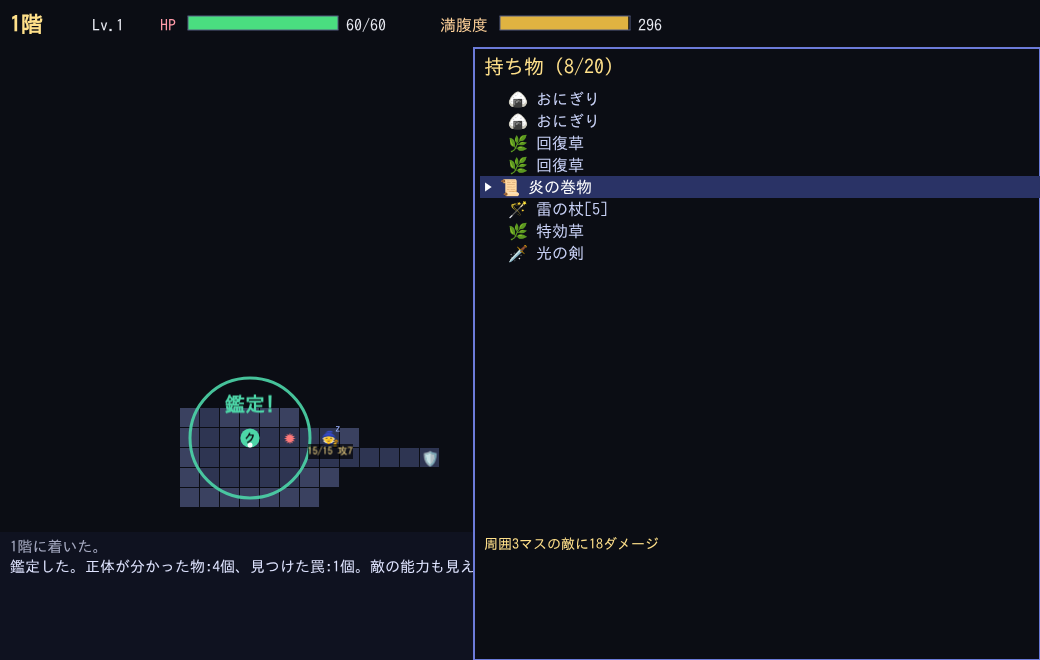
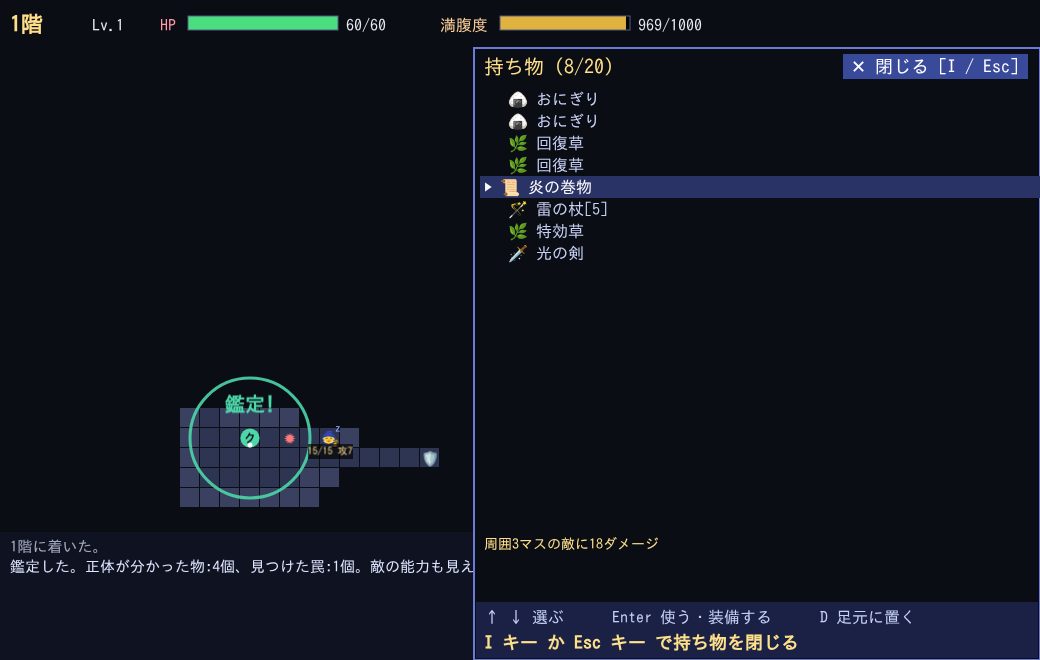
満腹度を「10歩で1減る」基準(最大1000)に変更、持ち物メニューの閉じ方ガイドを追加
Claude-Session: https://claude.ai/code/session_01CApP844H6gPytoXvYh9u8m

Changed region(s): [[0.4308, 0.9091, 1.0, 1.0], [0.8, 0.0606, 1.0, 0.1212], [0.6154, 0.0303, 0.6769, 0.0606]]

diff --git a/src/scenes/DungeonScene.ts b/src/scenes/DungeonScene.ts
@@ -77,7 +77,7 @@ export class DungeonScene extends Phaser.Scene {
         }
       } else if (ev.code === 'KeyD') {
         if (n > 0) { this.step({ t: 'drop', i: this.menuIdx }); this.menuIdx = Math.min(this.menuIdx, Math.max(0, g.player.inv.length - 1)); return; }
-      } else if (ev.code === 'KeyI' || ev.code === 'Escape') this.menuOpen = false;
+      } else if (ev.code === 'KeyI' || ev.code === 'Escape' || ev.code === 'Backspace') this.menuOpen = false;
       this.render();
       return;
     }
@@ -232,11 +232,11 @@ export class DungeonScene extends Phaser.Scene {
     this.bar(188, 16, 150, 14, p.hp / p.maxHp, p.hp / p.maxHp < 0.3 ? 0xff4d4d : 0x4ade80);
     add(txt(this, 346, 14, `${p.hp}/${p.maxHp}`, 16));
     add(txt(this, 440, 14, '満腹度', 16, '#ffd29a'));
-    this.bar(500, 16, 130, 14, p.fullness / MAX_FULLNESS, p.fullness < 40 ? 0xff7a3d : 0xe0b341);
-    add(txt(this, 638, 14, `${p.fullness}`, 16));
+    this.bar(500, 16, 130, 14, p.fullness / MAX_FULLNESS, p.fullness < 200 ? 0xff7a3d : 0xe0b341);
+    add(txt(this, 638, 14, `${p.fullness}/${MAX_FULLNESS}`, 16));
     if (p.maxMp > 0) {
-      add(txt(this, 690, 14, 'MP', 16, '#c9a0ff'));
-      this.bar(720, 16, 70, 14, p.mp / p.maxMp, 0xa78bfa);
+      add(txt(this, 760, 14, 'MP', 16, '#c9a0ff'));
+      this.bar(790, 16, 70, 14, p.mp / p.maxMp, 0xa78bfa);
     }
 
     // 右パネル
@@ -285,6 +285,10 @@ export class DungeonScene extends Phaser.Scene {
     const mx = x - 320;
     const add = (o: Phaser.GameObjects.GameObject) => this.menu.add(o);
     add(txt(this, mx, y + 6, `持ち物 (${p.inv.length}/${INV_MAX})`, 20, '#ffe08a'));
+    const close = txt(this, GAME_W - 12, y + 6, '✕ 閉じる [I / Esc]', 18, '#ffffff', { backgroundColor: '#3a4a9a', padding: { x: 8, y: 3 } }).setOrigin(1, 0);
+    close.setInteractive({ useHandCursor: true });
+    close.on('pointerdown', () => { this.menuOpen = false; this.render(); });
+    add(close);
     if (p.inv.length === 0) add(txt(this, mx, y + 44, '何も持っていない。', 16, '#8b95bd'));
     p.inv.forEach((it: Item, i: number) => {
       const sel = i === this.menuIdx;
@@ -295,5 +299,8 @@ export class DungeonScene extends Phaser.Scene {
     });
     const cur = p.inv[this.menuIdx];
     if (cur) add(txt(this, mx, y + 40 + INV_MAX * 22 + 6, g.itemDesc(cur), 14, '#ffe08a', { wordWrap: { width: 560, useAdvancedWrap: true } }));
+    this.gfx2.fillStyle(0x1a2145, 1).fillRect(x - 330 + 2, GAME_H - 58, GAME_W - x + 330 - 4, 56);
+    add(txt(this, mx, GAME_H - 54, '↑ ↓ 選ぶ      Enter 使う・装備する      D 足元に置く', 16, '#c7d0f5'));
+    add(txt(this, mx, GAME_H - 30, 'I キー か Esc キー で持ち物を閉じる', 18, '#ffe08a', { fontStyle: 'bold' }));
   }
 }

diff --git a/src/core/data.ts b/src/core/data.ts
@@ -2,7 +2,7 @@
 
 export const MAX_FLOOR = 10;
 export const INV_MAX = 20;
-export const MAX_FULLNESS = 300;
+export const MAX_FULLNESS = 1000;
 
 export type CharId = 'elwin' | 'barrage' | 'sion' | 'fate' | 'clayd';
 export const CHAR_IDS: CharId[] = ['elwin', 'barrage', 'sion', 'fate', 'clayd'];
@@ -83,9 +83,9 @@ export const EFFECTS: Effect[] = [
   { kind: 'herb', id: 'poison', name: '毒草', weight: 4, value: 8, desc: 'HPが8減り、満腹度も下がる' },
   { kind: 'herb', id: 'eye', name: '目薬草', weight: 4, value: 0, desc: 'このフロアの罠が全て見える' },
 
-  { kind: 'food', id: 'onigiri', name: 'おにぎり', weight: 10, value: 150, desc: '満腹度が150回復する' },
-  { kind: 'food', id: 'big', name: '大きなおにぎり', weight: 3, value: 300, desc: '満腹度が300回復する(最大まで)' },
-  { kind: 'food', id: 'jerky', name: '干し肉', weight: 5, value: 100, desc: '満腹度が100回復する' },
+  { kind: 'food', id: 'onigiri', name: 'おにぎり', weight: 10, value: 500, desc: '満腹度が500回復する' },
+  { kind: 'food', id: 'big', name: '大きなおにぎり', weight: 3, value: 1000, desc: '満腹度が1000回復する(最大まで)' },
+  { kind: 'food', id: 'jerky', name: '干し肉', weight: 5, value: 300, desc: '満腹度が300回復する' },
 
   { kind: 'scroll', id: 'map', name: '地図の巻物', weight: 6, value: 0, desc: 'このフロアの地形が全て分かる' },
   { kind: 'scroll', id: 'warp', name: '瞬間移動の巻物', weight: 5, value: 0, desc: 'フロア内のどこかへ飛ぶ' },

diff --git a/src/core/game.ts b/src/core/game.ts
@@ -680,7 +680,7 @@ export class Game {
         break;
       case 'poison':
         p.hp = Math.max(1, p.hp - value);
-        p.fullness = Math.max(0, p.fullness - 10);
+        p.fullness = Math.max(0, p.fullness - 100);
         this.log(`毒草だ! 体がしびれる…。${tag}`);
         break;
       case 'eye':
@@ -822,7 +822,7 @@ export class Game {
         }
         p.infoTurns = CLAYD_INFO_TURNS;
         p.abilityCd = CLAYD_CD;
-        p.fullness = Math.max(0, p.fullness - 3);
+        p.fullness = Math.max(0, p.fullness - 30);
         this.fx.push({ type: 'identify', x: p.x, y: p.y });
         this.log(`鑑定した。正体が分かった物:${n}個、見つけた罠:${t}個。敵の能力も見える。`);
         return true;
@@ -878,8 +878,8 @@ export class Game {
     if (this.status !== 'playing') return;
     // 満腹度
     p.fullness = Math.max(0, p.fullness - 1);
-    if (p.fullness === 40) this.log('お腹がすいてきた…');
-    if (p.fullness === 15) this.log('お腹がぺこぺこだ!');
+    if (p.fullness === 200) this.log('お腹がすいてきた…');
+    if (p.fullness === 100) this.log('お腹がぺこぺこだ!');
     if (p.fullness === 0) {
       this.damagePlayer(1, '空腹');
       if (this.turn % 5 === 0 && this.status === 'playing') this.log('空腹で体力が減っていく…');

diff --git a/scripts/single.ts b/scripts/single.ts
@@ -39,7 +39,7 @@ const body = `<meta name="claude:viewport-fit-sides" content="cover">
     <span><b>待機</b> S</span>
     <span><b>攻撃</b> Space</span>
     <span><b>固有能力</b> F</span>
-    <span><b>持ち物</b> I</span>
+    <span><b>持ち物</b> I(閉じるのも I か Esc)</span>
     <span><b>階段</b> Enter</span>
   </p>
 </div>

diff --git a/src/core/bot.ts b/src/core/bot.ts
@@ -48,7 +48,7 @@ export function botAct(g: Game, st: BotState): Action {
     if (h) return { t: 'use', i: p.inv.indexOf(h) };
   }
   // 食事
-  if (p.fullness <= 100) {
+  if (p.fullness <= 250) {
     const f = p.inv.find((i) => i.kind === 'food');
     if (f) return { t: 'use', i: p.inv.indexOf(f) };
   }

diff --git a/DESIGN.md b/DESIGN.md
@@ -10,7 +10,7 @@
 - 描画は `Phaser.CANVAS`。ヘッドレスChromiumでもWebGLなしで確実に撮れるため
 - 乱数は自前の mulberry32。マップ生成・戦闘・アイテム配置が全て同じ乱数列を使うので、シードとボット方針が同じなら再現できる
 - 操作: 矢印/QWEADZXCで8方向、Sで待機、Spaceで正面攻撃、Fで固有能力、Iで持ち物、Enterか`.`で階段。敵に向かって移動すると攻撃になる
-- 満腹度: 最大300、毎ターン-1、0でHP-1/ターン。1階に1個は食料を必ず置く(詰み防止)。おにぎり+150/大きなおにぎり+300/干し肉+100
+- 満腹度: 最大1000、毎ターン-1(=不思議のダンジョン系の「10歩で1減る」と同じ割合を、1歩1減・最大1000で表した)、0でHP-1/ターン。1階に1個は食料を必ず置く(詰み防止)。おにぎり+500/大きなおにぎり+1000/干し肉+300。「お腹がすいてきた」は200、「ぺこぺこ」は100で表示
 - 敵が居座り用に70ターンごとに1体増える(放置で稼げないようにする)
 - 食料は常に鑑定済み(未鑑定にすると食べ物が毒になる仕様がなく、遊びが増えないため)
 - 武器・盾も未鑑定名(「さびた剣」など)。装備すると正体が分かる。「呪い」は外せない
@@ -43,9 +43,14 @@
 - バグ修正: バラージの変身中に眠りガスを踏むと、眠り処理が飛ばされて入力が永久に受け付けられなくなる不具合があり(20000ターン超過11件)、眠りの処理を変身の行動回数処理より先にして直した
 
 ## 空腹の調整(人が遊んだ後の修正)
-- 最初は最大200・おにぎり+80だった。ボットは最短で階段へ向かうので足りたが、人が探索すると1フロア約120ターンかかり、4階で食料が尽きて詰んだ(報告あり)。ランダムにキーを押す試験でも全員が1〜2階で餓死した
-- 最大300・おにぎり+150などに引き上げた。「毎ターン減る」は変えていない。ボット検証は再実行し、数値目標は通っている(クリア率10〜41%、最大差31ポイント)
+- 最初は最大200・おにぎり+80だった。ボットは最短で階段へ向かうので足りたが、人が探索すると1フロア約120ターンかかり、4階で食料が尽きて詰んだ(報告あり)
+- 一度、最大300・おにぎり+150に上げたが、まだ減りが早いとの指摘があり、「10歩で1減る」基準に合わせて最大1000・おにぎり+500に変更した。「毎ターン減る」は変えていない
+- 毒草は満腹度-100、クレイドの鑑定は満腹度-30(最大値の拡大に合わせて10倍)
+- ボット検証は再実行し、数値目標を満たす(クリア率10〜35%、最大差25ポイント)
 - バラージのHPを54→58(+8/Lv)に上げた。クリア率が下限5%に近すぎた(6%)ため
+
+## 持ち物メニューの閉じ方(人が遊んだ後の修正)
+- 閉じ方が分かりにくいとの指摘があり、メニュー下部に操作ガイド(「↑↓ 選ぶ / Enter 使う・装備する / D 足元に置く」「I キー か Esc キー で持ち物を閉じる」)を常時表示し、右上に「✕ 閉じる [I / Esc]」ボタン(クリックでも閉じる)を置いた。Backspaceでも閉じる
 
 ## スクショについて
 - 全画面を `npm run shots` で撮れた(14枚)。撮れなかった画面はない

diff --git a/CHECKLIST.md b/CHECKLIST.md
@@ -5,7 +5,7 @@
 ## 完了条件
 - [x] 1. ビルドが通る / `npm run build` → `tsc --noEmit` エラーなし、`vite build` が `✓ built in 1.12s` で完了(dist/ 出力)
 - [x] 2. 自動テストが通る / `npm test` → `Test Files 1 passed (1) / Tests 24 passed (24)`。固有能力5つ(エルウィン回復・バラージ2回行動とCD・シオン魔法とMP・フェイト範囲とHP消費・クレイド鑑定と罠発見)と、同時ターン・満腹度・未鑑定アイテム・罠(地雷/眠りガス/落とし穴)を含む
-- [x] 3. ボット検証の数値目標を満たす / `npm run bot` → クリア率 エルウィン41%・バラージ23%・シオン17%・フェイト12%・クレイド10%(全員5〜70%)、最大差31ポイント(≤40)、平均到達階 8.91〜9.39(≥4)、20000ターン超過0件・クラッシュ0件、`判定: 合格`
+- [x] 3. ボット検証の数値目標を満たす / `npm run bot` → クリア率 エルウィン35%・バラージ12%・シオン19%・フェイト16%・クレイド10%(全員5〜70%)、最大差25ポイント(≤40)、平均到達階 8.80〜9.32(≥4)、20000ターン超過0件・クラッシュ0件、`判定: 合格`
 - [x] 4. スクショが全て保存されている / `npm run shots` → screenshots/ に14枚(01_title, 02_charselect, 03_exploring_floor1, 04_battle, 05〜09の固有能力5枚, 09a/10 クレイドの鑑定前後, 11_boss, 12_gameover, 13_clear)。撮れなかった画面なし
 - [x] 5. このチェックリストの全項目が埋まっている / 下記の機能欄も全て確認済み
 
